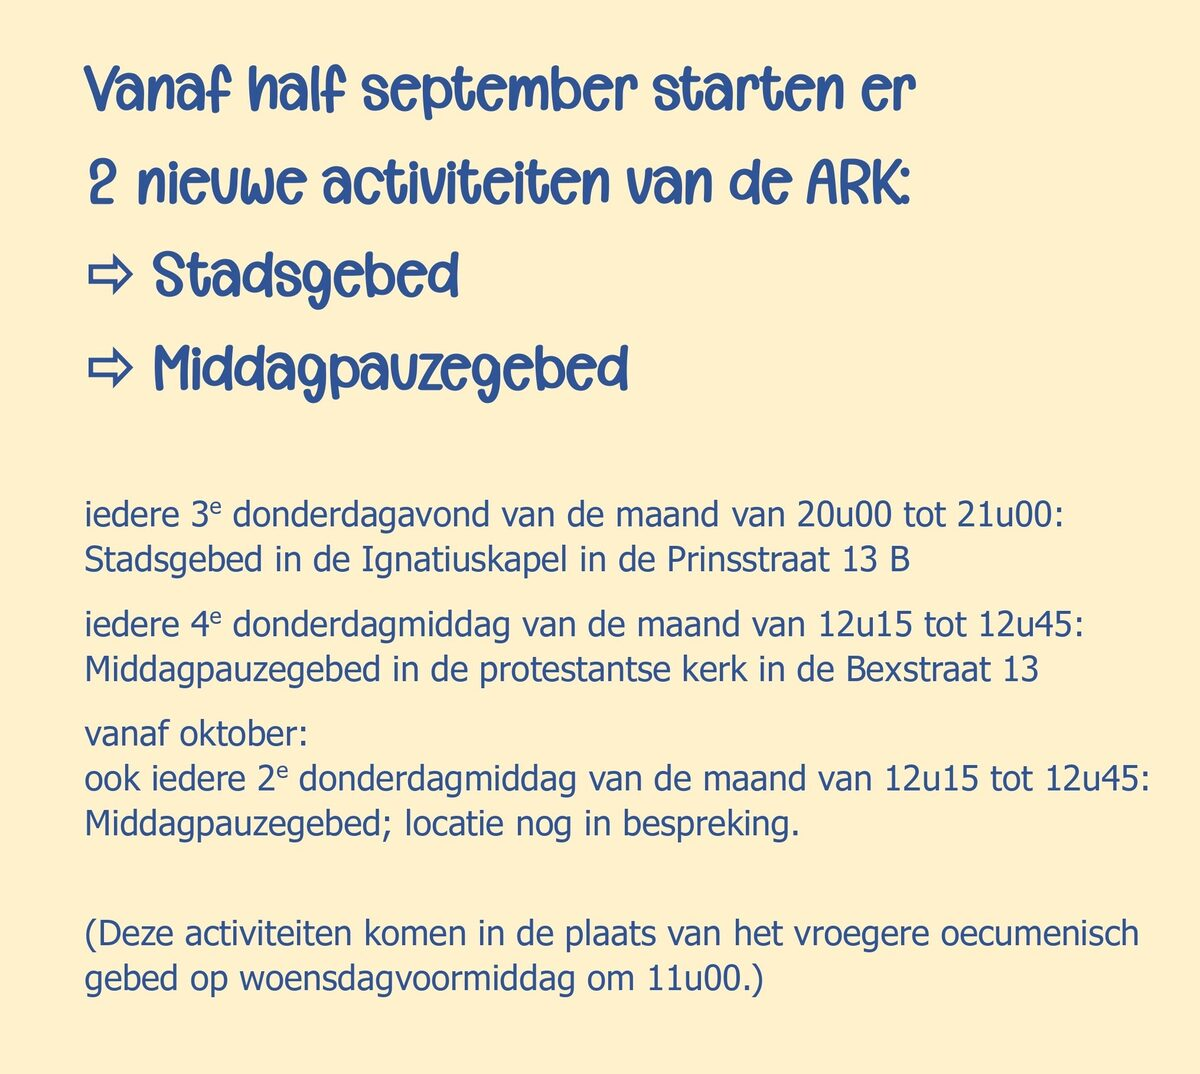
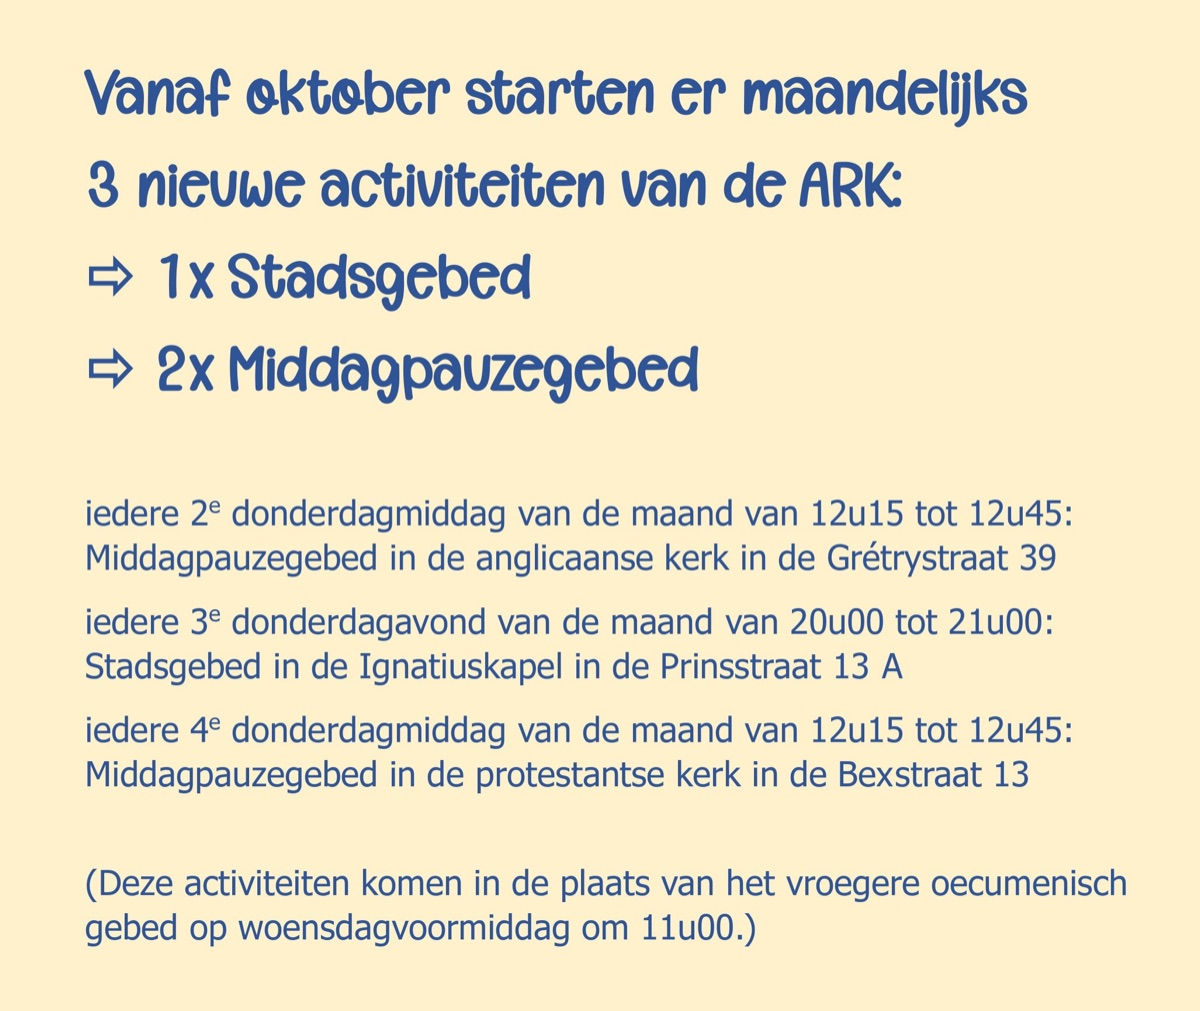
Home: wederkerende events vanaf oktober (3 activiteiten) + events oktober
- Tekst bijgewerkt: maandelijks 1x Stadsgebed en 2x Middagpauzegebed
  (2e do. Grétrystraat 39, 3e do. Ignatiuskapel Prinsstraat 13 A, 4e do. Bexstraat 13)
- Nieuwe aankondiging + illustraties Middagpauzegebed Grétrystraat en Bexstraat
- Geplande events: do. 8 okt Middagpauzegebed en do. 15 okt Stadsgebed

Changed region(s): [[0.0617, 0.4599, 0.9558, 0.7972], [0.0617, 0.0613, 0.8633, 0.3986], [0.0617, 0.8586, 0.9558, 0.9505]]

diff --git a/src/components/recurring-events.js b/src/components/recurring-events.js
@@ -3,6 +3,8 @@ import styled from "styled-components"
 import {activeColor, color4, textColor} from "./colors"
 import {SectionTitle} from "./section-title"
 import aankondiging from "../images/ark-aankondiging-gebed-2026.jpg"
+import middagGretry from "../images/middagpauzegebed-gretrystraat-2026.jpg"
+import middagBex from "../images/middagpauzegebed-bexstraat-2026.jpg"
 import stadsgebedRecto from "../images/stadsgebed-recto-2026.jpg"
 import stadsgebedVerso from "../images/stadsgebed-verso-2026.jpg"
 
@@ -97,23 +99,23 @@ export const RecurringEvents = () => (
     <div>
         <SectionTitle title={"Wederkerende events"} subtitle={""}/>
         <RecurringStyled>
-            <p style={{fontSize: "1.2rem"}}>Vanaf half september starten er <strong>2 nieuwe activiteiten</strong> van de ARK:</p>
+            <p style={{fontSize: "1.2rem"}}>Vanaf oktober starten er maandelijks <strong>3 nieuwe activiteiten</strong> van de ARK:</p>
             <ActivityListStyled>
-                <li><span>1</span>Stadsgebed</li>
-                <li><span>2</span>Middagpauzegebed</li>
+                <li><span>1</span>1x Stadsgebed</li>
+                <li><span>2</span>2x Middagpauzegebed</li>
             </ActivityListStyled>
             <ul>
                 <li>
+                    iedere <strong>2e donderdagmiddag</strong> van de maand van <strong>12u15 tot 12u45</strong>:
+                    Middagpauzegebed in de anglicaanse kerk in de Grétrystraat 39
+                </li>
+                <li>
                     iedere <strong>3e donderdagavond</strong> van de maand van <strong>20u00 tot 21u00</strong>:
-                    Stadsgebed in de Ignatiuskapel in de Prinsstraat 13 B
+                    Stadsgebed in de Ignatiuskapel in de Prinsstraat 13 A
                 </li>
                 <li>
                     iedere <strong>4e donderdagmiddag</strong> van de maand van <strong>12u15 tot 12u45</strong>:
                     Middagpauzegebed in de protestantse kerk in de Bexstraat 13
-                </li>
-                <li>
-                    vanaf oktober: ook iedere <strong>2e donderdagmiddag</strong> van de maand van <strong>12u15 tot 12u45</strong>:
-                    Middagpauzegebed; locatie nog in bespreking.
                 </li>
             </ul>
             <p style={{fontStyle: "italic", color: "#555"}}>
@@ -125,7 +127,13 @@ export const RecurringEvents = () => (
         </RecurringStyled>
         <IllustrationsStyled>
             <a href={aankondiging} target="_blank" rel="noopener noreferrer">
-                <img src={aankondiging} alt="Aankondiging: vanaf half september 2 nieuwe activiteiten van de ARK – Stadsgebed en Middagpauzegebed"/>
+                <img src={aankondiging} alt="Aankondiging: vanaf oktober maandelijks 3 nieuwe activiteiten van de ARK – 1x Stadsgebed en 2x Middagpauzegebed"/>
+            </a>
+            <a href={middagGretry} target="_blank" rel="noopener noreferrer">
+                <img src={middagGretry} alt="ARK Middagpauzegebed – iedere 2e donderdag van 12u15 tot 12u45 in de anglicaanse kerk, Grétrystraat 39"/>
+            </a>
+            <a href={middagBex} target="_blank" rel="noopener noreferrer">
+                <img src={middagBex} alt="ARK Middagpauzegebed – iedere 4e donderdag van 12u15 tot 12u45 in de protestantse kerk, Bexstraat 13"/>
             </a>
             <a href={stadsgebedRecto} target="_blank" rel="noopener noreferrer">
                 <img src={stadsgebedRecto} alt="Flyer Antwerps stadsgebed – elke derde donderdag van de maand van 20u tot 21u in de Ignatiuskapel"/>
